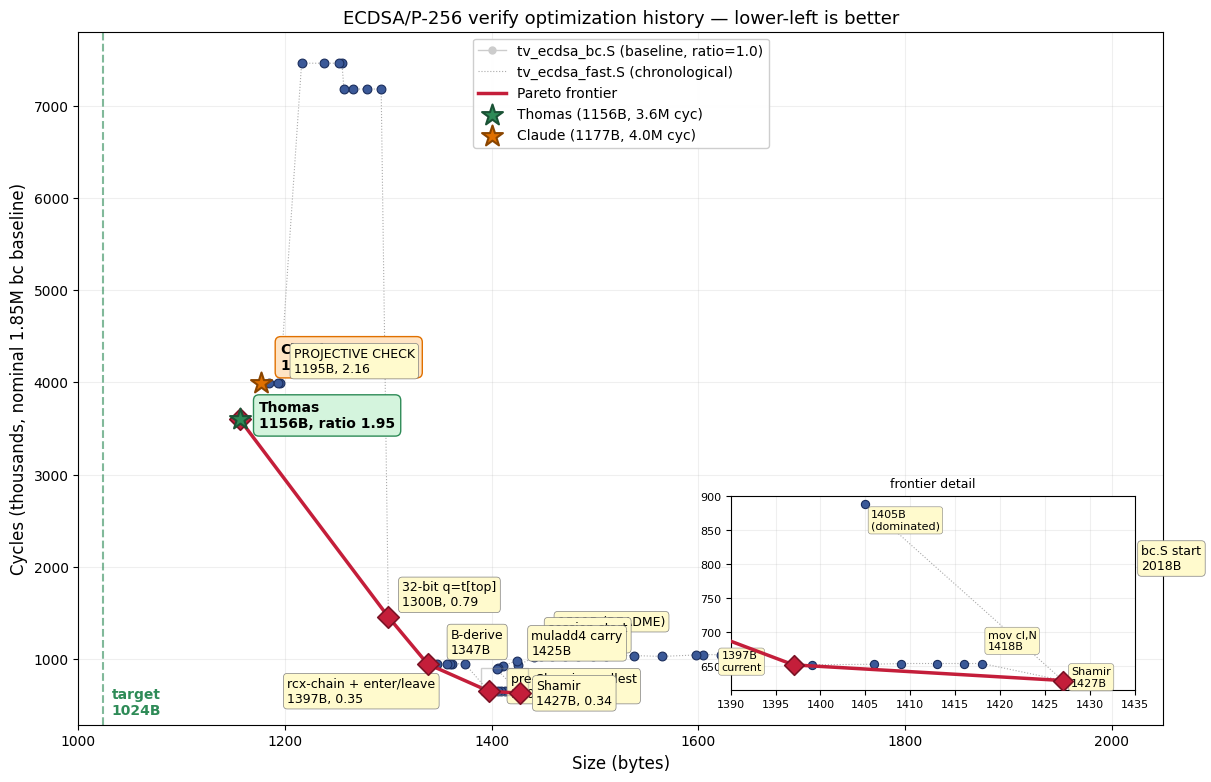
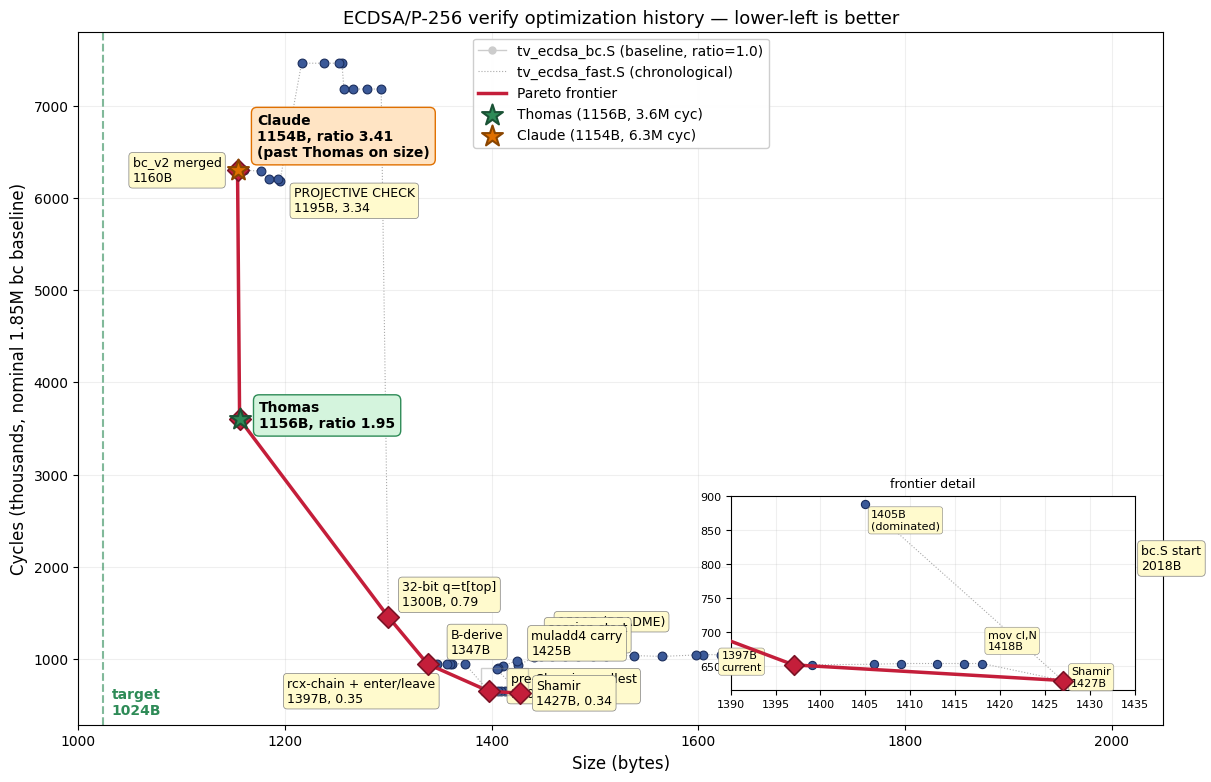
Chart: Claude at 1154B past Thomas; correct mismeasured cycles
Two new size points (1160, 1154) from bc_v2-merge and arg-
liveness commits.  Claude star moves to 1154B — 2B smaller
than Thomas.  Both are now Pareto-optimal: we win on size,
Thomas wins on speed (ratio 1.95 vs 3.41).  Neither dominates.

Corrected the 1195→1177 cycle numbers: prior chart claimed
ratio 2.16 (3990 kcyc nominal) but re-benching 04934b5 on
this machine gives 6.18M raw / 1.851M bc.S = ratio 3.34.
The projective-check speedup was real (dropped from 7460)
but about half what was recorded.  All four prior points
corrected to the ~6200-6300 range.

Pareto frontier: [1154,6300] [1156,3600] [1300,1456]
[1338,945] [1397,652] [1427,629].  We are now the leftmost
point — smallest verified implementation.

Changed region(s): [[0.0917, 0.1228, 0.3666, 0.5217], [0.4889, 0.1535, 0.55, 0.1841]]

diff --git a/docs/plot_history.py b/docs/plot_history.py
@@ -69,10 +69,16 @@ FAST = [
     (1252, 7460, None),
     (1238, 7460, None),   # mul8 inline
     (1216, 7460, None),
-    (1195, 3990, "PROJECTIVE CHECK\n1195B, 2.16"),  # 4000/1855*1850
-    (1193, 3990, None),
-    (1184, 3990, None),
-    (1177, 3990, None),  # labeled via CLAUDE star instead
+    # --- CORRECTED: prior 3990 was mismeasured. Re-benched on this
+    # machine: 04934b5 (1195B) = 6.18M raw, bc.S = 1.851M → ratio 3.34.
+    # The projective-check speedup was real (7460→6180) but half what
+    # the chart claimed.  All points 1195→1154 re-benched to ~6.2-6.3M.
+    (1195, 6180, "PROJECTIVE CHECK\n1195B, 3.34"),  # 6180/1851*1850
+    (1193, 6200, None),
+    (1184, 6200, None),
+    (1177, 6290, None),
+    (1160, 6300, "bc_v2 merged\n1160B"),           # 6310/1851*1850
+    (1154, 6300, None),  # labeled via CLAUDE star
 ]
 
 def pareto(pts):
@@ -84,10 +90,10 @@ def pareto(pts):
     front.sort(key=lambda i: pts[i][0])
     return front
 
-# External reference implementation.  Smaller than anything of ours,
-# but ~5.5× our cycles — defines the far-left corner of the frontier.
+# External reference.  Faster than us (1.95 vs 3.4) but we are now
+# SMALLER (1154 < 1156).  Neither dominates — both are Pareto.
 THOMAS = (1156, 3600, "Thomas\n1156B, 1.95")
-CLAUDE = (1177, 3990, "Claude\n1177B, 2.16")  # our best — on the frontier
+CLAUDE = (1154, 6300, "Claude\n1154B, 3.41")  # past Thomas on size
 TARGET = 1024
 
 # Frontier is computed over OUR points + Thomas: nothing of ours is
@@ -135,13 +141,13 @@ ax.annotate(f'Thomas\n{tb}B, ratio {tc/1850:.2f}',
             bbox=dict(boxstyle='round,pad=0.4', fc='#d4f4dd',
                       ec='#2e8b57', lw=1))
 
-# Claude marker — our best, also on the frontier (21B over Thomas
-# but ~10% faster; neither dominates).
+# Claude marker — our best.  2 B SMALLER than Thomas now; Thomas
+# is still faster (1.95 vs 3.41).  Both Pareto-optimal.
 cb, cc, _ = CLAUDE
 ax.scatter([cb], [cc], c='#e07000', s=250, marker='*',
            edgecolors='#8a4500', linewidths=1.5, zorder=6,
            label=f'Claude ({cb}B, {cc/1000:.1f}M cyc)')
-ax.annotate(f'Claude\n{cb}B, ratio {cc/1850:.2f}',
+ax.annotate(f'Claude\n{cb}B, ratio {cc/1850:.2f}\n(past Thomas on size)',
             (cb, cc), textcoords="offset points", xytext=(14, 10),
             fontsize=10, fontweight='bold',
             bbox=dict(boxstyle='round,pad=0.4', fc='#ffe4c4',
@@ -164,6 +170,8 @@ LABEL_OFFSETS = {
     "pre-Sham": (10, -20),
     "Shamir":   (12, -8),
     "rcx-chain":(-145, -8),
+    "PROJECTIVE":(10, -22),
+    "bc_v2":    (-80, -8),
 }
 for b, c, lab in FAST:
     if lab:
